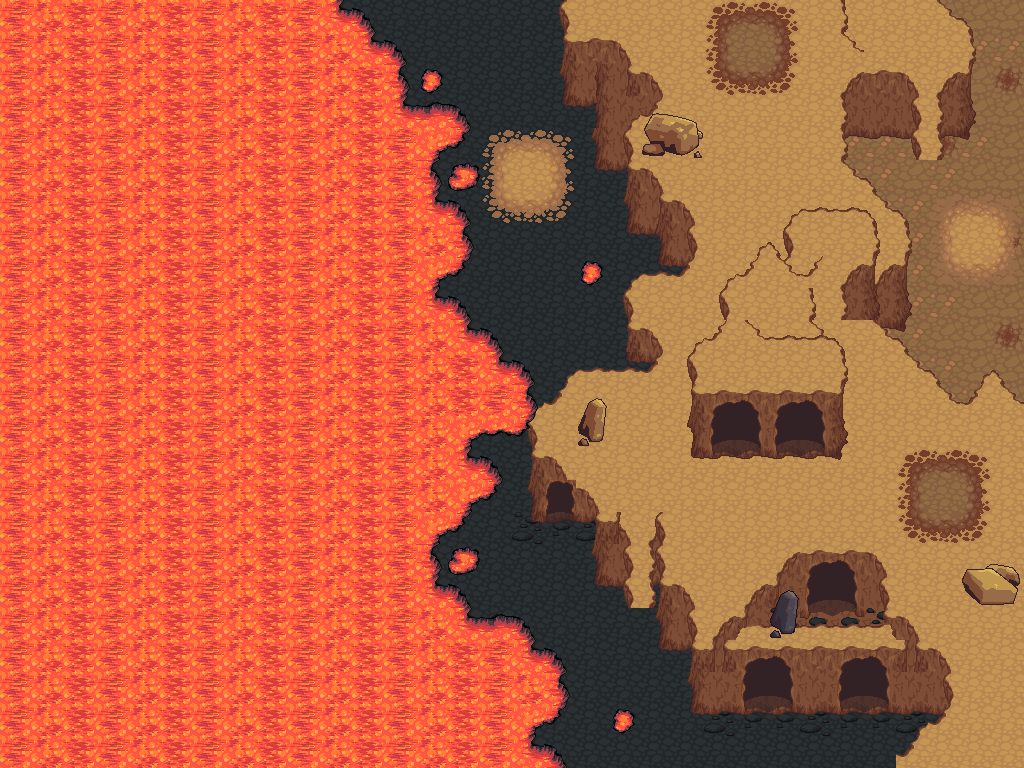
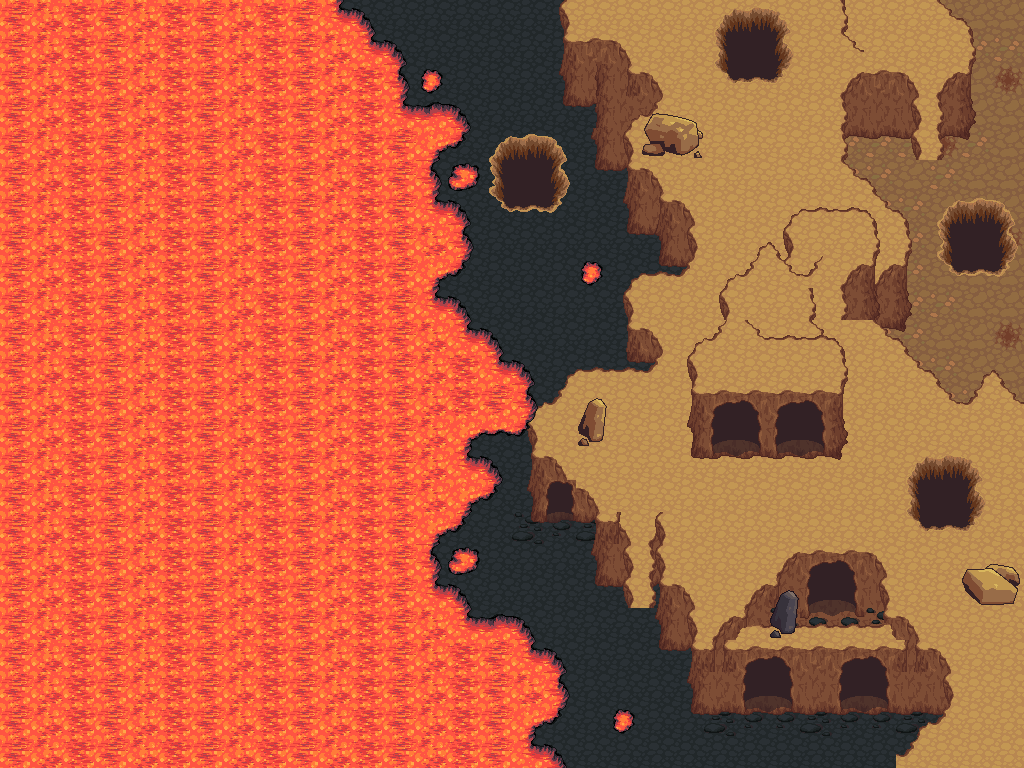
Integration limitation of building and place Add effect to be apply on remove building Use region name instead of ID in Event dialog

diff --git a/src/Building.py b/src/Building.py
@@ -8,12 +8,12 @@ AERIEN = 3
 
 buildingDef = dict( \
     Ferme = dict(resType = "Agriculture", pos = GENERAL, imgName = "image/building_image/ferme.png", workerMax = 10, secteur = "primaire", space = 40, buildcost = dict( Bois = 345, Minerais = 6), buildTime = 5, entretient = 0.1, prerequis = "" ),
-    Mine  =  dict(resType = "Metaux", pos = GENERAL, imgName = "image/building_image/mine.png", workerMax = 100, secteur = "primaire", space = 2, buildcost = dict( Bois = 345, Minerais = 6), buildTime = 5, entretient = 0.1, prerequis = "" ),
+    Mine  =  dict(resType = "Metaux", pos = SOUSTERRAIN, imgName = "image/building_image/mine.png", workerMax = 100, secteur = "primaire", space = 2, buildcost = dict( Bois = 345, Minerais = 6), buildTime = 5, entretient = 0.1, prerequis = "" ),
     Scierie = dict(resType = "Bois", pos = GENERAL, imgName = "image/building_image/usine_de_transformation_du_bois.png", workerMax = 20, secteur = "primaire", space = 5, buildcost = dict( Bois = 0, Minerais = 6), buildTime = 5, entretient = 0.1, prerequis = "" ),
 
-    Forage_petrolier = dict(resType = "Petrole", pos = GENERAL, imgName = "image/building_image/Station_de_forage.png", workerMax = 3000, secteur = "primaire", space = 1, buildcost = dict( Bois = 0, Minerais = 800), buildTime = 5, entretient = 0.1, prerequis = "gisement" ),
+    Forage_petrolier = dict(resType = "Petrole", pos = AERIEN, imgName = "image/building_image/Station_de_forage.png", workerMax = 3000, secteur = "primaire", space = 1, buildcost = dict( Bois = 0, Minerais = 800), buildTime = 5, entretient = 0.1, prerequis = "gisement" ),
     Camp_de_chasse  =  dict(resType = "Chasse", pos = GENERAL, imgName = "image/building_image/camp_de_chasse.png", workerMax = 600, secteur = "primaire", space = 1, buildcost = dict( Bois = 345, Minerais = 60), buildTime = 5, entretient = 0.05, prerequis = "" ),
-    Port = dict(resType = "Peche", pos = GENERAL, imgName = "image/building_image/port.png", workerMax = 1500, secteur = "primaire", space = 1, buildcost = dict( Bois = 300, Minerais = 300), buildTime = 5, entretient = 0.15, prerequis = "" ),
+    Port = dict(resType = "Peche", pos = RIVE, imgName = "image/building_image/port.png", workerMax = 1500, secteur = "primaire", space = 1, buildcost = dict( Bois = 300, Minerais = 300), buildTime = 5, entretient = 0.15, prerequis = "" ),
     ZRLA= dict(resType = "population max", pos = GENERAL, imgName = "image/building_image/quartier_residentielle.png", workerMax = 500, secteur = "tertiaire", space = 1, buildcost = dict( Bois = 500, Minerais = 500), buildTime = 5, entretient = 0.2, prerequis = "" ),
     Ecole  =  dict(resType = "Travailleurs", pos = GENERAL, imgName = "image/building_image/ecole.png", workerMax = 400, secteur = "tertiaire", space = 1, buildcost = dict( Bois = 800, Minerais = 500), buildTime = 5, entretient = 0.1, prerequis = "" ),
     Stade = dict(resType = "Bonheur", pos = GENERAL, imgName = "image/building_image/stade.png", workerMax = 1700, secteur = "tertiaire", space = 1, buildcost = dict( Bois = 100, Minerais = 2000), buildTime = 5, entretient = 0.1, prerequis = "" ),
@@ -44,19 +44,19 @@ buildingDesc = dict( \
     )
 
 buildingEffect = dict( \
-    Ferme = dict( add = ["pollution=6"], remove = [""]),
-    Mine  = dict( add = ["pollution=10" ], remove = [""]),
-    Scierie = dict( add = ["pollution=4"], remove = [""]),
-    Forage_petrolier = dict( add = ["pollution=16", "bonheur=-7"], remove = [""]),
-    Camp_de_chasse  =  dict( add = ["pollution=2"], remove = [""]),
-    Port = dict( add = ["pollution=4"], remove = [""]),
-    ZRLA = dict( add = ["pollution=8"], remove = [""]),#augmentation population
-    Ecole  = dict( add = ["pollution=2"], remove = [""]),#augemntation population
+    Ferme = dict( add = ["pollution=6"], remove = ["pollution=0"]),
+    Mine  = dict( add = ["pollution=10" ], remove = ["pollution=0"]),
+    Scierie = dict( add = ["pollution=4"], remove = ["pollution=0"]),
+    Forage_petrolier = dict( add = ["pollution=16", "bonheur=-7"], remove = ["pollution=0"]),
+    Camp_de_chasse  =  dict( add = ["pollution=2"], remove = ["pollution=0"]),
+    Port = dict( add = ["pollution=4"], remove = ["pollution=0"]),
+    ZRLA = dict( add = ["pollution=8"], remove = ["pollution=0"]),#augmentation population
+    Ecole  = dict( add = ["pollution=2", "education=20"], remove = ["education=-20"]),#augemntation population
     Stade = dict( add = ["pollution=8", "bonheur=20"], remove = ["bonheur=-25"]),
-    CSE = dict( add = ["pollution=-15"], remove = ["pollution=18"]),
-    Prison  =  dict( add = ["pollution=3","criminalite=-10"], remove = [""]),
-    CGA = dict( add = ["pollution=4","influence=15"], remove = [""]),
-    Parc =  dict( add = ["pollution=-40", "bonheur=10","sante=8"], remove = ["bonheur=-30"]),
+    CSE = dict( add = ["pollution=-15" ], remove = ["pollution=18"]),
+    Prison  =  dict( add = ["pollution=3","criminalite=-10"], remove = ["criminalite=15"]),
+    CGA = dict( add = ["pollution=4","influence=15"], remove = ["pollution=0"]),
+    Parc =  dict( add = ["pollution=-40", "bonheur=10","sante=8"], remove = ["bonheur=-30","sante=-8","pollution=-40"]),
     Hopital  =  dict( add = ["pollution=4","sante=17"], remove = ["bonheur=-30"])
     )
 

diff --git a/src/Island.py b/src/Island.py
@@ -7,6 +7,7 @@ import StoryTelling
 OVERVIEW_ZONE_NAME = "Region"
 LANDING_REGION_NAME = "RegionA"
 
+
 secteurDef = dict(
     Region = dict(terType = "Foret", resList = ("Agriculture", "Chasse", "Peche", "Bois", "Minerais", "Petrole"), image = "image/map/Man'ana'toura .png", name = "Man'ana'toura" ),
     RegionA = dict(terType = "Foret", resList = ("Agriculture", "Chasse", "Peche", "Bois", "Minerais", "Petrole"), image = "image/map/Man'ana'toura_foest.png", name = "La Forêt Boisée" ),
@@ -29,16 +30,16 @@ secteurSpaceDef = dict(
     Region  = [],                       
     RegionA = [(155,125,GENERAL), (28,566,GENERAL),(292,629,GENERAL), (390,282,GENERAL), (515,153,GENERAL),(484,411,GENERAL),(584,580,GENERAL), (842,248,GENERAL),(904,568,GENERAL)],
     RegionB = [(66,53,GENERAL), (160,246,GENERAL),(62,597,GENERAL),(289,438,GENERAL),(384,591,GENERAL),(449,311,GENERAL),(417,86,GENERAL),(643,433,GENERAL),(706,55,GENERAL),(866,279,GENERAL) ],
-    RegionC = [(124,117,GENERAL), (192,440,GENERAL), (128,623,GENERAL),(318,20,GENERAL),(413,335,GENERAL),(479,625,GENERAL),(543,55,GENERAL),(672,272,GENERAL),(800,528,GENERAL),(838,60,GENERAL) ],
-    RegionD = [(159,431,GENERAL),(224,326,GENERAL), (637,0,GENERAL),(764,180,GENERAL),(631,400,GENERAL),(607,630,GENERAL), (833,600,GENERAL)],
-    RegionE = [(7,170,GENERAL), (135,47,GENERAL),(167,230,GENERAL), (153,520,GENERAL), (327,145,GENERAL),(400,565,GENERAL),(454,110,GENERAL), (567,497,GENERAL),(615,145,GENERAL),(774,40,GENERAL), (775,236,GENERAL),(900,139,GENERAL),(890,598,GENERAL)],
-    RegionF = [(470,115,GENERAL),(702,0,GENERAL),(680,363,GENERAL),(915,172,GENERAL),(745,363,GENERAL),(888,431,GENERAL),(773,525,GENERAL),(710,620,GENERAL),(809,620,GENERAL)],
+    RegionC = [(124,117,GENERAL), (192,440,GENERAL), (128,623,GENERAL),(318,20,GENERAL),(413,335,GENERAL),(479,625,GENERAL),(543,55,GENERAL),(672,272,GENERAL),(800,528,GENERAL),(838,60,AERIEN) ],
+    RegionD = [(159,431,GENERAL),(224,326,AERIEN), (637,0,GENERAL),(764,180,GENERAL),(631,400,GENERAL),(607,630,GENERAL), (833,600,GENERAL)],
+    RegionE = [(7,170,SOUSTERRAIN), (135,47,SOUSTERRAIN),(167,230,SOUSTERRAIN), (153,520,GENERAL), (327,145,SOUSTERRAIN),(400,565,GENERAL),(454,110,SOUSTERRAIN), (567,497,AERIEN),(615,145,SOUSTERRAIN),(774,40,SOUSTERRAIN), (775,236,SOUSTERRAIN),(900,139,SOUSTERRAIN),(890,598,AERIEN)],
+    RegionF = [(470,115,AERIEN),(702,0,AERIEN),(680,363,SOUSTERRAIN),(915,172,AERIEN),(745,363,SOUSTERRAIN),(888,431,AERIEN),(773,525,SOUSTERRAIN),(710,620,SOUSTERRAIN),(809,620,SOUSTERRAIN)],
     RegionG = [(256,24,GENERAL), (451,17,GENERAL),(130,118,GENERAL),(285,243,GENERAL),(65,410,GENERAL),(96,592,GENERAL),(930,183,GENERAL),(897,442,GENERAL),(860,634,GENERAL)],
-    RegionH = [(70,74,GENERAL),(132,74,GENERAL),(49,215,GENERAL),(185,595,GENERAL),(265,360,GENERAL),(355,10,GENERAL),(380,500,GENERAL),(519,104,GENERAL),(646,10,GENERAL),(744,10,GENERAL),(636,500,GENERAL),(824,210,GENERAL),(816,595,GENERAL),(903,70,GENERAL)],
+    RegionH = [(70,74,SOUSTERRAIN),(132,74,SOUSTERRAIN),(49,215,GENERAL),(185,595,GENERAL),(265,360,GENERAL),(355,10,SOUSTERRAIN),(380,500,SOUSTERRAIN),(519,104,SOUSTERRAIN),(646,10,SOUSTERRAIN),(744,10,SOUSTERRAIN),(636,500,GENERAL),(824,210,GENERAL),(816,595,GENERAL),(903,70,SOUSTERRAIN)],
     RegionI = [(96,334,GENERAL),(190,560,GENERAL),(320,180,GENERAL),(410,395,GENERAL),(510,632,GENERAL),(640,237,GENERAL),(767,500,GENERAL),(864,24,GENERAL)],
-    RegionJ = [(352,0,GENERAL),(368,206,GENERAL),(580,24,GENERAL),(514,430,GENERAL)],
-    RegionK = [(160,75,GENERAL),(480,90,GENERAL),(700,0,GENERAL),(770,155,GENERAL),(160,279,GENERAL),(290,285,GENERAL),(411,282,GENERAL),(628,333,GENERAL)],
-    RegionL = [(0,494,GENERAL),(190,627,GENERAL),(172,399,GENERAL),(366,474,GENERAL),(459,474,GENERAL),(622,447,GENERAL),(848,547,GENERAL)],
+    RegionJ = [(352,0,GENERAL),(368,206,GENERAL),(580,24,GENERAL),(514,430,RIVE)],
+    RegionK = [(160,75,GENERAL),(480,90,GENERAL),(700,0,GENERAL),(770,155,GENERAL),(160,279,RIVE),(290,285,RIVE),(411,282,RIVE),(628,333,RIVE)],
+    RegionL = [(0,494,GENERAL),(190,627,GENERAL),(172,399,RIVE),(366,474,RIVE),(459,474,RIVE),(622,447,RIVE),(848,547,RIVE)],
     )
 
 class Island(object):

diff --git a/src/EventEffectAnalyse.py b/src/EventEffectAnalyse.py
@@ -72,6 +72,10 @@ class EventImpact(object):
             self.island.ModifyCriminalite(secteur, value)
             print("%s modify %s criminalite by %s" % (evtName, secteur, value) )
 
+        elif(token == "education"):
+            self.island.ModifyEducation(secteur, value)
+            print("%s modify %s education by %s" % (evtName, secteur, value) )
+
         elif(token == "sante"):
             self.island.ModifySante(secteur, value)
             print("%s modify %s sante by %s" % (evtName, secteur, value) )

diff --git a/src/zone.py b/src/zone.py
@@ -184,7 +184,7 @@ class Secteur():
         self.population.bonheur = startup_package.Effects ["Bonheur"] 
         self.population.education =  startup_package.Effects ["Education"] 
         self.population.panique = startup_package.Effects ["Panique"]
-        self.criminalite = startup_package.Effects ["Criminalite"] 
+        self.population.criminalite = startup_package.Effects ["Criminalite"] 
           
         
 

diff --git a/src/Events.py b/src/Events.py
@@ -98,7 +98,7 @@ class EventsViewer(gui.Table):
         self.tr()
         regionString = ""
         for region in self.gameEvent.regions:
-            regionString += region +", "
+            regionString += Island.secteurDef[region]["name"] +", "
         title =  gui.Label("Event: %s les régions touché sont: %s" % (self.gameEvent.name, regionString) ) 
         self.td(title,align=0,cls=self.cls+'.bar')
         
